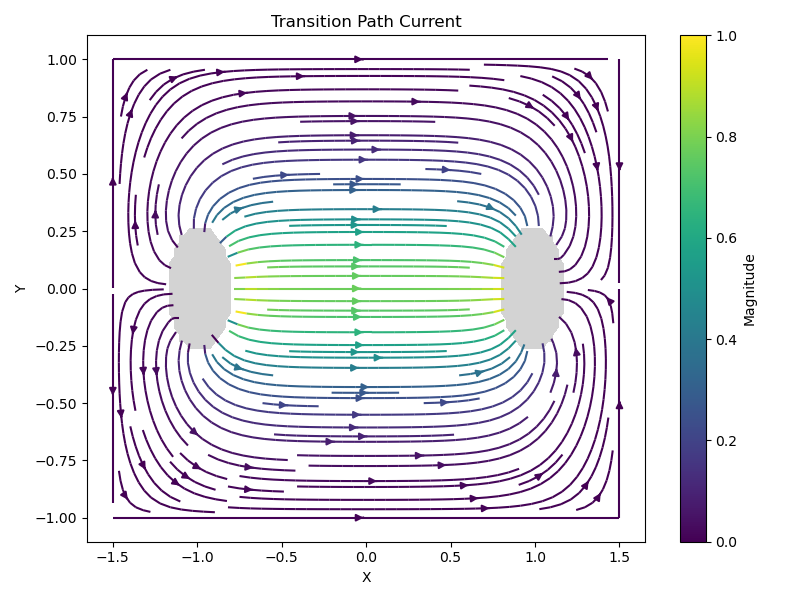
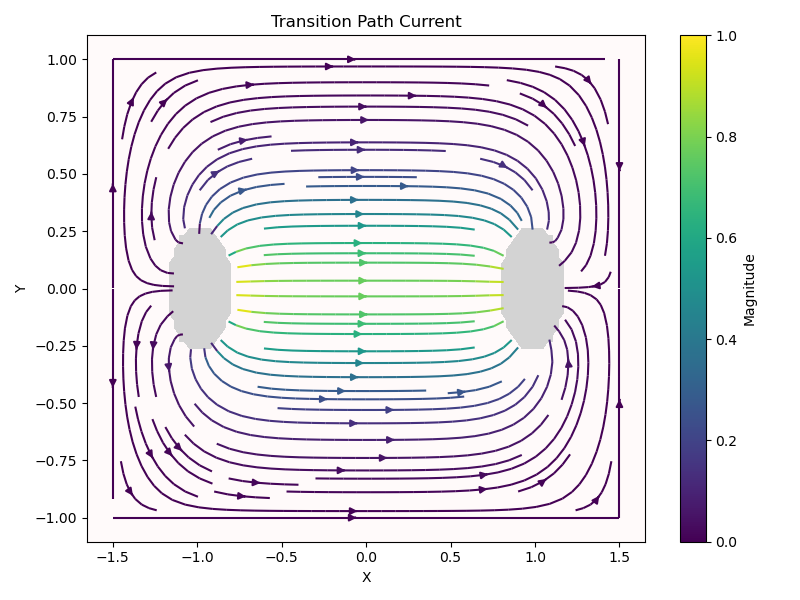
need to think

Changed region(s): [[0.125, 0.09, 0.7812, 0.87]]

diff --git a/doublewell/langevin.py b/doublewell/langevin.py
@@ -7,7 +7,10 @@ import os
 from doublewell import dw
 from functions.func import overdamped_langevin
 
+
 # Import parameters
+from main import dt, T, D
+
 file_path = 'doublewell/data/parameters.pkl'
 with open(file_path, 'rb') as file:
     parameters = pickle.load(file)
@@ -21,7 +24,6 @@ Vmax = parameters['Vmax']
 X = []
 Y = []
 V = []
-prob = []
 
 
 # Open the CSV file for reading
@@ -31,19 +33,17 @@ with open('doublewell/data/data.csv', 'r') as csvfile:
     header = next(csv_reader)
     # Iterate through each row in the CSV file
     for row in csv_reader:
-        x_val, y_val, V_val, P_val = map(float, row[:4])
+        x_val, y_val, V_val = map(float, row[:3])
         # Append values to their respective lists
         X.append(x_val)
         Y.append(y_val)
         V.append(V_val)
-        prob.append(P_val)
 
 
 # Reshape the loaded data back to their original meshgrid shape
 X = np.array(X).reshape((Nx, Ny))  
 Y = np.array(Y).reshape((Nx, Ny))  
 V = np.array(V).reshape((Nx, Ny))  
-prob = np.array(prob).reshape((Nx, Ny))
 
 
 # Create folder for images, if it does not already exist
@@ -51,11 +51,8 @@ if not os.path.exists('doublewell/images'):
    os.makedirs('doublewell/images')
 
 
-# Define parameters
-x0, y0 = -1.0, 0.0  # Initial positions (x, y)
-D = 1               # Diffusion coefficient
-dt = 0.01           # Time step for numerical integration
-T = 10              # Total time for integration
+# Initial positions (x, y)
+x0, y0 = -1.0, 0.0 
 
 
 # Define deterministic forces for the x and y directions
@@ -66,12 +63,78 @@ f_y = lambda x, y: dw.V_partialy(x, y)
 # Solve the 2D Langevin equation
 t, x, y = overdamped_langevin(x0, y0, f_x, f_y, D, dt, T)
 
-# Plot the results
-plt.contourf(X, Y, V, levels=15, cmap='coolwarm')
-plt.colorbar(label='Energy')
-plt.plot(x, y, linestyle='-', color='blue', label='Trajectory')
-plt.xlabel('x')
-plt.ylabel('y')
-plt.title('Energy Landscape with Trajectory')
-plt.legend()
-plt.show()
+
+# # Plot the trajectory
+# plt.contourf(X, Y, V, levels=15, cmap='coolwarm')
+# plt.colorbar(label='Energy')
+# plt.plot(x_reac, y_reac, linestyle='-', color='blue', label='Trajectory')
+# plt.xlabel('x')
+# plt.ylabel('y')
+# plt.title('Energy Landscape with Trajectory')
+# plt.legend()
+# plt.show()
+
+
+# indicator functions of the metastable states
+def in_reac(x, y):
+    return x < 0 and dw.potential(x, y) < Vmax  # condition for reactant set 
+
+def in_prod(x, y):
+    return x > 0 and dw.potential(x, y) < Vmax  # condition for product set 
+
+
+# first and last passage time functions
+def t_plus(t0, t, x, y, R, P):
+    """
+    Calculate the first passage time to the reactant set or to the product set starting from time t.
+
+    Parameters:
+        t0: Independent time variable.
+        t: Array of times of the trajectory data.
+        x: Array of x-coordinate trajectory data.
+        y: Array of y-coordinate trajectory data.
+        R: A function that returns True if a point is in set R.
+        P: A function that returns True if a point is in set P.
+
+    Returns:
+        float: The first passage time to R or P starting from time t, or np.inf if not reached.
+    """
+    for n in range(len(t)):
+        if t[n] < t0:
+            continue
+        if R(x[n], y[n]) or P(x[n], y[n]):
+            return t[n]
+    return np.inf # check this (should be fine)
+    # for improvement (add also in t_minus)
+    # for ti, xi, yi in zip(t, x, y):
+    #     if ti < t0:
+    #         continue
+    #     if R(xi, yi) or P(xi, yi):
+    #         return ti
+    # return np.inf
+
+def t_minus(t0, t, x, y, R, P):
+    """
+    Calculate the last passage time to the reactant set or to the product set starting from time t.
+
+    Parameters:
+        t0: Independent time variable.
+        t: Array of times of the trajectory data.
+        x: Array of x-coordinate trajectory data.
+        y: Array of y-coordinate trajectory data.
+        R: A function that returns True if a point is in set R.
+        P: A function that returns True if a point is in set P.
+
+    Returns:
+        float: The last passage time to R or P ending at time t, or -np.inf if not reached.
+    """
+    for n in reversed(range(len(t))):
+        if t[n] > t0:
+            continue
+        if R(x[n], y[n]) or P(x[n], y[n]):
+            return t[n]
+    return -np.inf # check this (should be fine)
+
+
+
+

diff --git a/doublewell/plot.py b/doublewell/plot.py
@@ -99,13 +99,13 @@ plt.savefig("doublewell/images/m_tpt.png")
 magnitude = np.sqrt(J[0]**2 + J[1]**2)
 magnitude_normalized = (magnitude - np.min(magnitude)) / (np.max(magnitude) - np.min(magnitude))
 plt.figure(figsize=(8, 6))
-plt.streamplot(X.T, Y.T, J[0].T, J[1].T, density=1.5, color=magnitude_normalized.T, cmap='viridis')
+plt.streamplot(X.T, Y.T, J[0].T, J[1].T, density=1.2, color=magnitude_normalized.T, cmap='viridis')
 plt.colorbar(label='Magnitude')
 plt.contourf(X, Y, highlighted_contour, colors='lightgray', alpha=1)
 plt.xlabel('X')
 plt.ylabel('Y')
 plt.title('Transition Path Current')
-# plt.gca().set_facecolor('lightgray')  # Set background color
+plt.gca().set_facecolor('snow')  # Set background color
 plt.tight_layout()
 plt.savefig("doublewell/images/J_tpt.png")
 
@@ -117,11 +117,24 @@ plt.savefig("doublewell/images/J_tpt.png")
 # Jy_plot = J[1][::subsample_factor, ::subsample_factor]
 
 # plt.figure(figsize=(8, 6))
-# plt.quiver(X_plot, Y_plot, Jx_plot, Jy_plot, angles='xy', scale_units='xy', scale=0.1, color='darkblue', alpha=0.7, width=0.005, headwidth=4)
+# plt.quiver(X_plot, Y_plot, Jx_plot, Jy_plot, angles='xy', scale_units='xy', scale=0.05, color='blue', alpha=0.7, width=0.005, headwidth=4)
 # plt.xlabel('X')
 # plt.ylabel('Y')
 # plt.title('Transition path current')
-# plt.gca().set_facecolor('lightgray')  # Set background color
-# plt.savefig("doublewell/J_tpt.png")
+# # plt.gca().set_facecolor('lightgray')  # Set background color
+# plt.savefig("doublewell/images/J_tpt.png")
 
-plt.show()
+# plt.show()
+
+
+# # reaction rate
+# beta = 1
+# h = 0.03
+
+# dq_dx = np.gradient(q, axis=1)
+# dq_dy = np.gradient(q, axis=0)
+
+# integrand = prob * (dq_dx**2 + dq_dy**2)
+
+# k = np.sum(integrand) * h * h / beta
+# print("The reaction rate is k =", format(k, ".2e"))

diff --git a/test/prova.py b/test/prova.py
@@ -1,30 +1,12 @@
 import numpy as np
 import matplotlib.pyplot as plt
 
-# Create a grid of points
-x = np.linspace(-2, 2, 100)
-y = np.linspace(-2, 2, 100)
-X, Y = np.meshgrid(x, y)
+t = np.linspace(0, 1, 5)
+x = t**2
 
-# Define the components of the vector field
-def u(x, y):
-    return -y
+for i in range(len(t)):
+    print(i, t[i], x[i])
 
-def v(x, y):
-    return x
+for i in reversed(range(len(t))):
+    print(i, t[i], x[i])
 
-# Compute the magnitudes of the vector field
-magnitude = np.sqrt(u(X, Y)**2 + v(X, Y)**2)
-
-# Normalize the magnitudes for colormap mapping
-magnitude_normalized = (magnitude - np.min(magnitude)) / (np.max(magnitude) - np.min(magnitude))
-
-# Plot the streamlines with colored intensity
-plt.figure(figsize=(8, 6))
-plt.streamplot(X, Y, u(X, Y), v(X, Y), color=magnitude_normalized, cmap='viridis')
-plt.colorbar(label='Magnitude')
-plt.xlabel('X')
-plt.ylabel('Y')
-plt.title('Streamlines with Colored Intensity')
-plt.tight_layout()
-plt.show()

diff --git a/doublewell/run.py b/doublewell/run.py
@@ -8,7 +8,7 @@ import os
 from functions import func 
 from doublewell import dw
 
-# from doublewell import beta, dx, Niter
+# import parameters
 from main import beta, dx, Niter
 
 # simulation box parameters
@@ -25,7 +25,7 @@ V = dw.potential(X, Y) # potential
 Vx = dw.V_partialx(X,Y) # derivative wrt x
 Vy = dw.V_partialy(X,Y) # derivative wrt y
 
-# calculate the Gibbs distribution (beta=1)
+# calculate the Gibbs distribution
 Z, dZ = dblquad(lambda y, x: np.exp(-beta*dw.potential(x, y)), -Ly, Ly, lambda x: -Lx, lambda x: Lx)
 prob = np.exp(-beta*V) / Z
 
@@ -47,6 +47,13 @@ m = q * (1-q) * np.exp(-V)
 
 # transition path current
 J = np.gradient(q) * prob
+
+# reaction rate
+dq_dx = np.gradient(q, axis=1)
+integrand = np.exp(-beta * V[:, 0]) * dq_dx[:, 0]
+
+k = np.sum(integrand) * dy / (Z * beta)
+print("The reaction rate is k =", k)
 
 # save data
 parameters = {

diff --git a/main.py b/main.py
@@ -1,5 +1,5 @@
 # execute the code
-solve = 2
+solve = 3
 
 if solve == 1:
     # set parameters
@@ -10,4 +10,10 @@ if solve == 1:
 elif solve == 2:
     from doublewell import plot
 elif solve == 3:
+    # set parameters
+    dt = 0.01           # Time step for numerical integration
+    T = 10              # Total time for integration
+    D = 1               # Diffusion coefficient
     from doublewell import langevin
+elif solve == 4:
+    from test import prova
